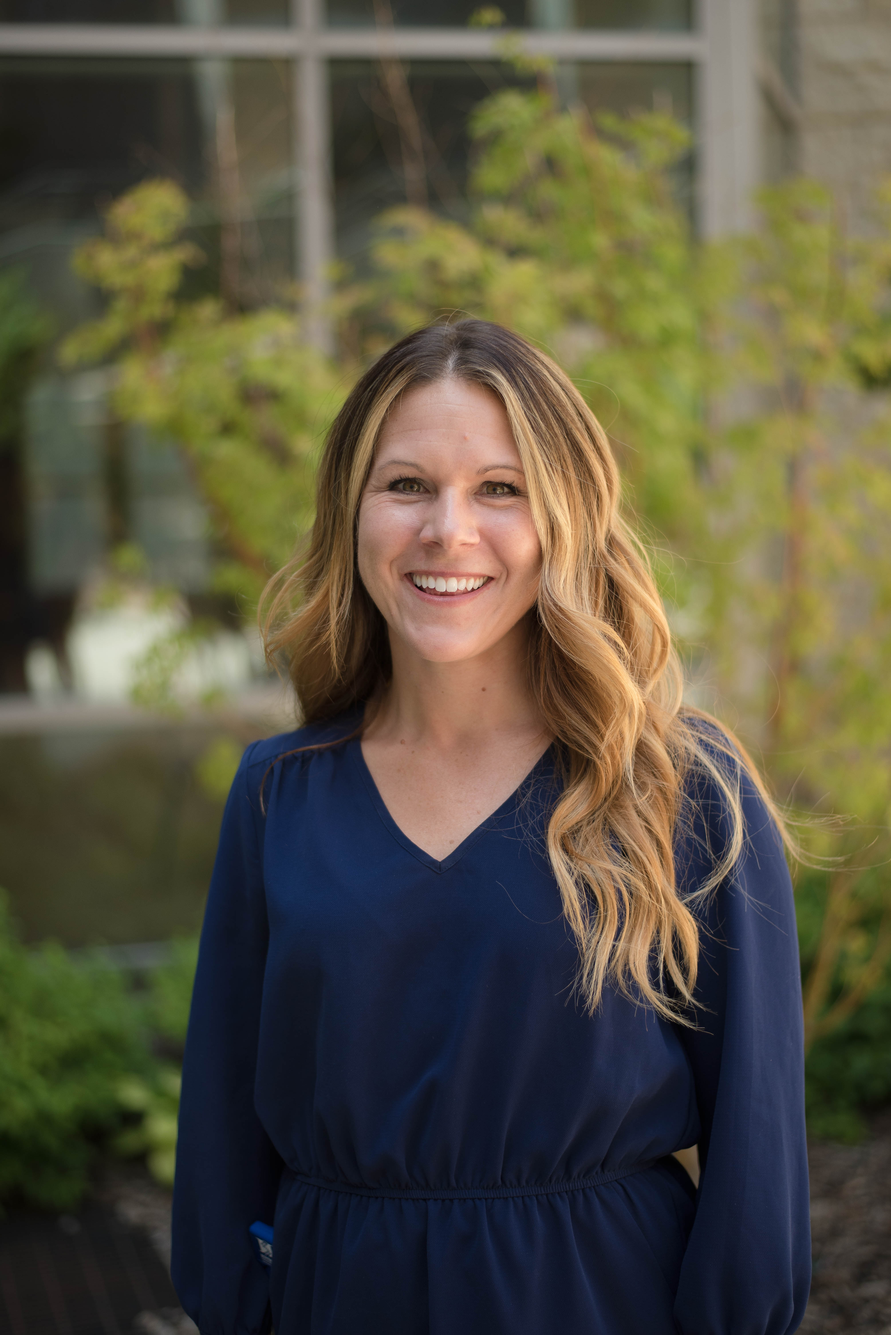
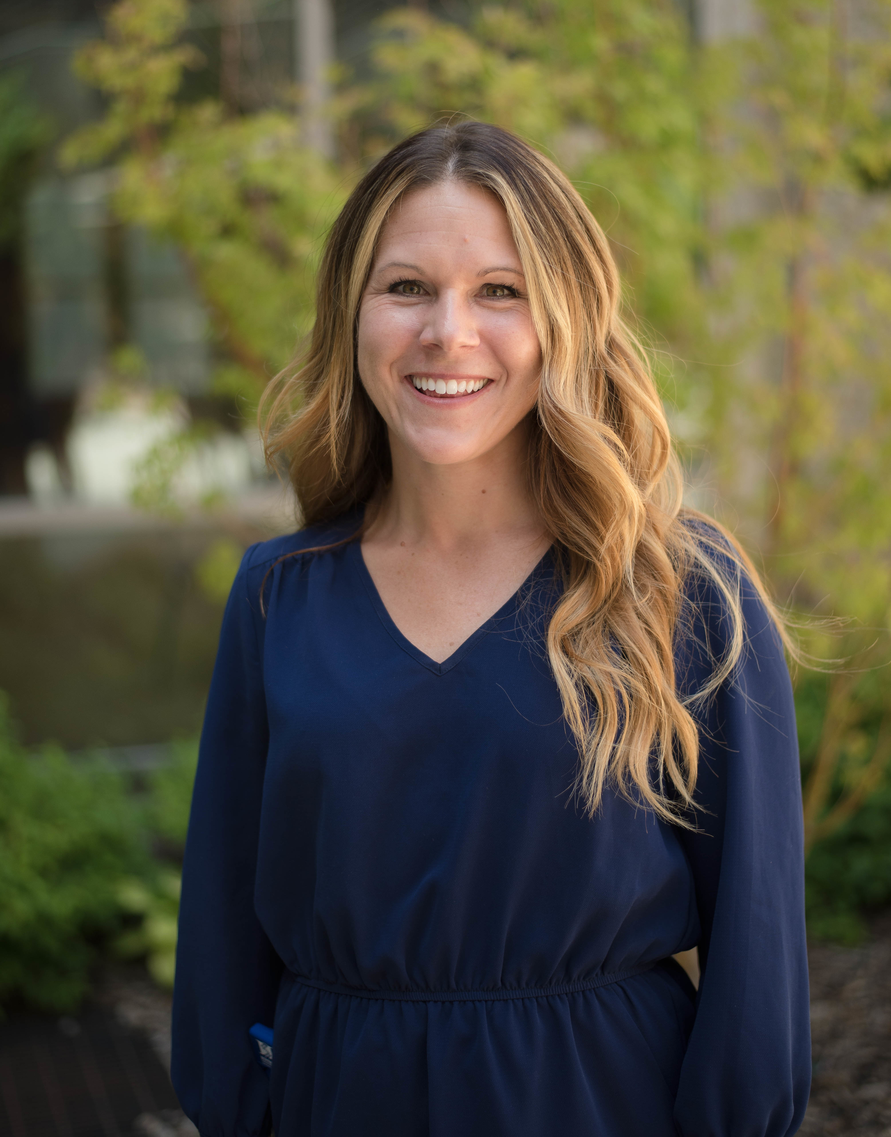
Some tweaks to profile images

diff --git a/assets/css/style.scss b/assets/css/style.scss
@@ -10,7 +10,7 @@
 }
 
 .bio-image img {
-    object-fit: cover;
+    object-fit: contain;
     width: 200px;
     height: 200px;
 }
